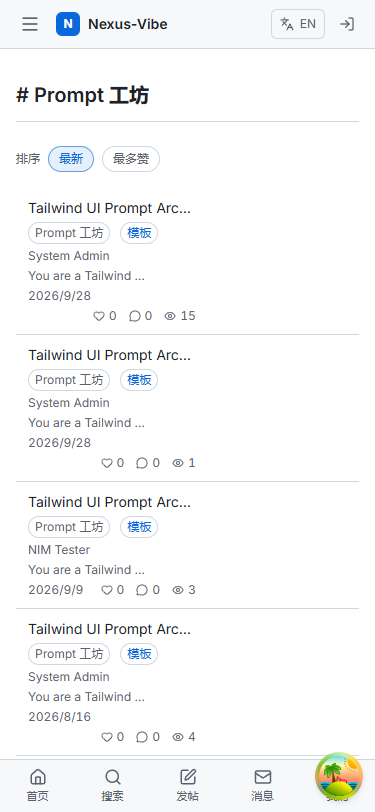
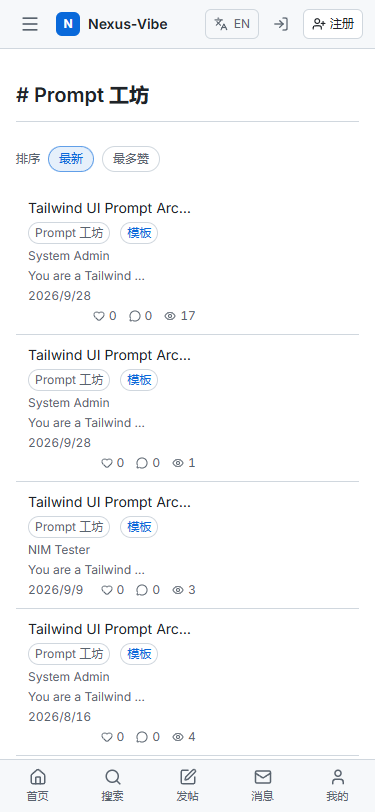
docs: re-capture 20 screenshots with a clean production render; add fixes ticket
- all 18 design-overhaul PNGs re-shot (same matrix, same names) against vite build + vite preview with the bundled Chromium: the bottom-right floating widget was TanStack Query Devtools (dev server only), not a browser extension, so production rendering removes it at the source
- readme/async-review.png and readme/community-feed.png replace the retired v1 terminal-aesthetic shots with dark-mode v2 equivalents; README alt/caption updated to match the pictured content (score 50/100, task-center hero)
- vite proxy temporarily repointed to 8080 for capture, reverted to 8081 (final diff zero)
- docs/tickets/design-overhaul-fixes.md records per-criterion status, assertion changes, screenshot method, deviations, rejected alternatives

diff --git a/docs/tickets/design-overhaul-fixes.md b/docs/tickets/design-overhaul-fixes.md
@@ -1,0 +1,123 @@
+# 设计修复轮：外审 A 档无争议缺陷（design-overhaul-fixes）
+
+Status: **待验收（2026-11-16，实现完成，Verifier 未跑）**。契约：[plans/design-overhaul-fixes.md](../plans/design-overhaul-fixes.md)；
+规范：[docs/design/ui-visual-system-v2.md](../design/ui-visual-system-v2.md)。实现分支 `codex/design-overhaul-fixes`
+（worktree `.claude/worktrees/design-fixes`，基线 c740aa8，契约冻结提交）。
+
+## Scope
+
+2026-11-16 外部锐评 7 组发现逐条手验后的 A 档 9 条：severity 徽章走词典、pending 态走词典、
+unanswered 频道化（前后端）、注册按钮移动端可见、palette 提示按平台、document.title 随语言、
+18 张截图干净配置重摄、README 两张 v1 截图换新 UI、门禁补课。B 档（首页宫格去留、首屏结构、
+行 meta 减法、profile 统计权重、语言按钮 aria 惯例、浅色代码块）不在本契约，走单独访谈。
+
+## Acceptance（对照契约 9 条的实现记录）
+
+1. **severity 走词典** — `AiReviewTerminal.tsx` 的 `SeverityBadge` 接 `agentLogs:severityNames`
+   （与 AgentLogsPage 共用同一词典块，不再逐面复制）；未知 key 回退 `defaultValue: normalized`。
+   新增测试钉 zh 渲染（`高`，且不再出现原始 key）。
+2. **pending 态走词典** — pending 分支改 `t('post:aiPending')`，复用既有词典键
+   （PostDetailPage 的等待横幅同键，两处文案从此一致）。en 词条由 "AI Agent reviewing..."
+   改写为 **"AI review in progress..."**（zh 不变："AI Agent 正在评审..."）——原 en 串
+   作为字面量会同时命中契约 grep 门禁，且钉句测试随之更新（见断言记录 1）。
+3. **unanswered 频道化** — 后端：`PostController.getUnansweredPosts` 增加可选
+   `@RequestParam(required=false) Long channelId`；`VibePostService` 接口签名改为
+   `getUnansweredPosts(int size, Long channelId)`（唯一调用方是 controller，无其他调用者需要兼容）；
+   `VibePostServiceImpl` 在 `channelId == null` 时走原路径逐字节不变；非空时取
+   `MAX_UNANSWERED_SIZE`(20) 条按 `categoryId` 过滤后 `limit(size)`。**/repository 与 mapper
+   不在 Allowed paths 内**，过滤只能在 service 层内存完成；频道未答帖超过 20 时右栏是子集
+   （代码注释与 ticket 双留痕）。前端：`ChannelPage` 的 unanswered query 带上
+   `channel?.id`（queryKey 与 params 同步），queryKey 频道感知防缓存串频道。后端测试
+   `VibePostServiceImplTest.getUnansweredPosts_channelScopedFilter` 覆盖：全站不含 channelId
+   两帖均可见、channelId=2 只留频道 2、channelId=3 镜像。
+4. **注册按钮移动端可见** — Navbar 注册入口去掉 `hidden ... sm:inline-flex`，改常显
+   icon+文字（UserPlus 图标，px-2 → sm:px-3 随视口放宽），登录 icon 按钮不动。
+   重摄的 375px 截图可见双入口。
+5. **palette 提示按平台** — `common:search.openPaletteHint`（"Ctrl K"）与新增
+   `openPaletteHintMac`（"⌘ K"）双词条双语言；Navbar 按
+   `/Mac|iPhone|iPad/i.test(navigator.platform || navigator.userAgent)` 择一。
+   **CommandPalette 检查过**：其 footer 提示是 `palette.footer.modifier` = "ctrl/⌘"
+   （平台无关合并词，有测试钉住），非同一字面量，未动。
+6. **document.title 随语言** — 新增 `common:site.title`（zh："Nexus-Vibe | AI 开发者社区"；
+   en："Nexus-Vibe | AI Developer Community"）；`i18n/index.ts` 在 bootstrap 完成后与
+   `setAppLanguage` 的 `changeLanguage` 回调里各自应用（同步 t() 会读到旧语言词典，故走回调）；
+   `setAppLanguage` 返回值从 `void` 改为 `Promise<void>`（调用方 LanguageToggle 忽略返回值，
+   行为不变），使标题应用可被测试等待。`index.html` 静态 zh 标题保留为首帧默认。
+   新增 `frontend/src/i18n/index.test.ts` 钉两种语言的标题。
+7. **截图重摄（干净配置）** — 18 张 PNG 全部同矩阵同名重摄（4 页 × 明暗 × 1280x800/375x812
+   + drawer-dark-375 + post-prompt-dark-1280）。方法与本轮两个新发现见下"截图方法"。
+8. **README 两张 v1 截图换新** — `async-review.png`（帖子详情，v2 折叠 AI 评审卡，
+   评分 50/100 · 低 · 通过）、`community-feed.png`（v2 首页 feed），暗色 1280x800，
+   生产构建渲染。alt 与图片说明随实更新（评分 70/100 → 50/100；"mission control" →
+   任务中心 hero；v1 说明里"五账号点赞"等不可再证的句子移除）。README 其余正文一字未动。
+9. **门禁补课** — `grep -rn 'AI Agent reviewing\|agent\.ticker' frontend/src` = **0 行**；
+   `grep -rn 'severityNames' frontend/src/components/AiReviewTerminal.tsx` 命中（词典接线）；
+   `npm run test`（120/22 全绿）、`npm run lint`（0 告警）、`npm run build`（tsc strict +
+   vite build 通过）、`mvn -B test`（**540 tests / 91 classes**，0 失败，JaCoCo 0.70 floor
+   通过）——均为实现方自跑，Verifier 需重跑。
+
+## 断言改动逐条记录
+
+1. **AiReviewTerminal.test.tsx** pending 钉句 `'AI Agent reviewing...'` →
+   `'AI review in progress...'`：钉句随词典键迁移（en 词条改写原因见 Acceptance 2），
+   语义不变（pending 态显示评审进行中文案）。
+2. **AiReviewTerminal.test.tsx** `afterEach` 增 `await i18next.changeLanguage('en')`：
+   新增 zh 渲染测试切了语言，恢复默认避免同文件后续测试读到 zh。既有断言无一删改。
+3. 新增断言（非改动）：zh severity 渲染钉（`高`）、document.title 双语言钉、
+   ChannelPage unanswered 查询频道感知源码钉。无任何断言为通过而弱化。
+
+## Files
+
+`frontend/src/components/AiReviewTerminal.tsx`、`frontend/src/components/Navbar.tsx`、
+`frontend/src/pages/ChannelPage.tsx`、`frontend/src/i18n/index.ts`、
+`frontend/src/i18n/locales/{zh,en}.json`、对应 4 个测试文件、
+`src/main/java/com/nexus/campus/controller/PostController.java`、
+`src/main/java/com/nexus/campus/service/VibePostService.java`、
+`src/main/java/com/nexus/campus/service/impl/VibePostServiceImpl.java`、
+`src/test/java/com/nexus/campus/service/VibePostServiceImplTest.java`、
+`docs/assets/design-overhaul/**`（18 张）、`docs/assets/readme/{async-review,community-feed}.png`、
+`README.md`（徽章 + Testing 段计数 + 两条 alt/说明）、`frontend/vite.config.ts`（截图代理
+临时改 8080，**已还原 8081**，最终 diff 为零）、本 ticket。
+
+## 截图方法（2026-11-16，替代上一轮的 dev-server 方法）
+
+`scratch/design-overhaul-shots/capture-fixes.cjs`（worktree 外）以 playwright-core 驱动
+**本机 ms-playwright 缓存的 Chromium**（chromium-1248，非 Edge channel）无头渲染：每张独立
+context，viewport 1280x800 / 375x812、`colorScheme` dark/light、`deviceScaleFactor: 1`、
+locale zh-CN，networkidle + 3s 后截视口。入库前逐张校验 PNG IHDR（桌面精确 1280x800 /
+移动精确 375x812），18 张 + README 2 张逐张目验四角干净。
+
+**对上一轮方法的两个修正（外审发现"悬浮物"的真正来源）：**
+
+- 悬浮的热带岛屿头像**不是浏览器扩展**——把 `--disable-extensions` 加上、换 bundled
+  Chromium 后仍在。逐元素定位后确认是 **TanStack Query Devtools 的悬浮按钮
+  （`tsqd-open-btn`）**，dev server（`npm run dev`）独有。本轮改以 `vite build` +
+  `vite preview`（生产模式，:4175）渲染，悬浮物从根上消失。
+- Edge channel 即使 `--disable-extensions` 也不可信（另有无扩展相关的壳层浮层风险），
+  统一用 playwright 缓存的 Chromium。代理临时指向 8080（vite.config.ts 已还原）。
+
+## 偏差与实现决定
+
+- **`post:aiPending` 的 en 值改写**（"AI review in progress..."）：契约门禁 grep 的是整个
+  `frontend/src`，词典文件也在其中；保留原串则门禁物理不可满足。zh 语义不变。
+- **后端 channelId 过滤在 service 层内存完成**：repository/mapper 不在 Allowed paths，
+  无法在 SQL 层过滤；取 20 条再过滤的近似已在代码注释、本 ticket 与验收记录三处留痕。
+- **`setAppLanguage` 返回 `Promise<void>`**：仅签名收窄（调用方不取返回值），为使
+  document.title 断言可等待。
+- **测试直接经 mapper 插入帖子而非 createPost**：createPost 触发的审核管线在 LLM 不可达
+  （本机常态）时异步把帖子 fail-close 成 status=2，读回放与截图都与管线竞速；直接插入
+  status=1/comment_count=0 的行让测试确定性地只测 unanswered 过滤本身。
+- **README 说明段（async-review 图下）重写**：评分 70/100→50/100（库中实值，截图可证）、
+  "五账号点赞"等无法再证实的句子移除，改为只陈述图内可见与 ADR-0010 支持的事实。
+
+## Rejected
+
+- **severityNames 复制一份进 post 词典**：AgentLogsPage 已有同名块，跨命名空间引用
+  （`useTranslation('agentLogs')`）即可，复制会造成两处漂移。
+- **后端 SQL 层过滤 unanswered（改 mapper/repository）**：两文件不在 Allowed paths；
+  越界即验收失败，代价（右栏最多 20 条窗口）对"等待面板"语义可接受并已留痕。
+- **CommandPalette 的 "ctrl/⌘" footer 提示按平台拆分**：它是平台无关的合并词且有测试钉住，
+  与"Ctrl K 硬编码"不是同一问题；拆分属 B 档打磨，不在本契约。
+- **用持久化 user-data-dir 做干净配置**：playwright 非 persistent context 本就是干净 profile，
+  问题根源在 devtools 浮层与 Edge 壳层，换渲染通道（生产 build + bundled Chromium）已解。
+- **顺手修 B 档条目**（登录/注册对称性重设计等）：契约边界；B 档走单独访谈。
